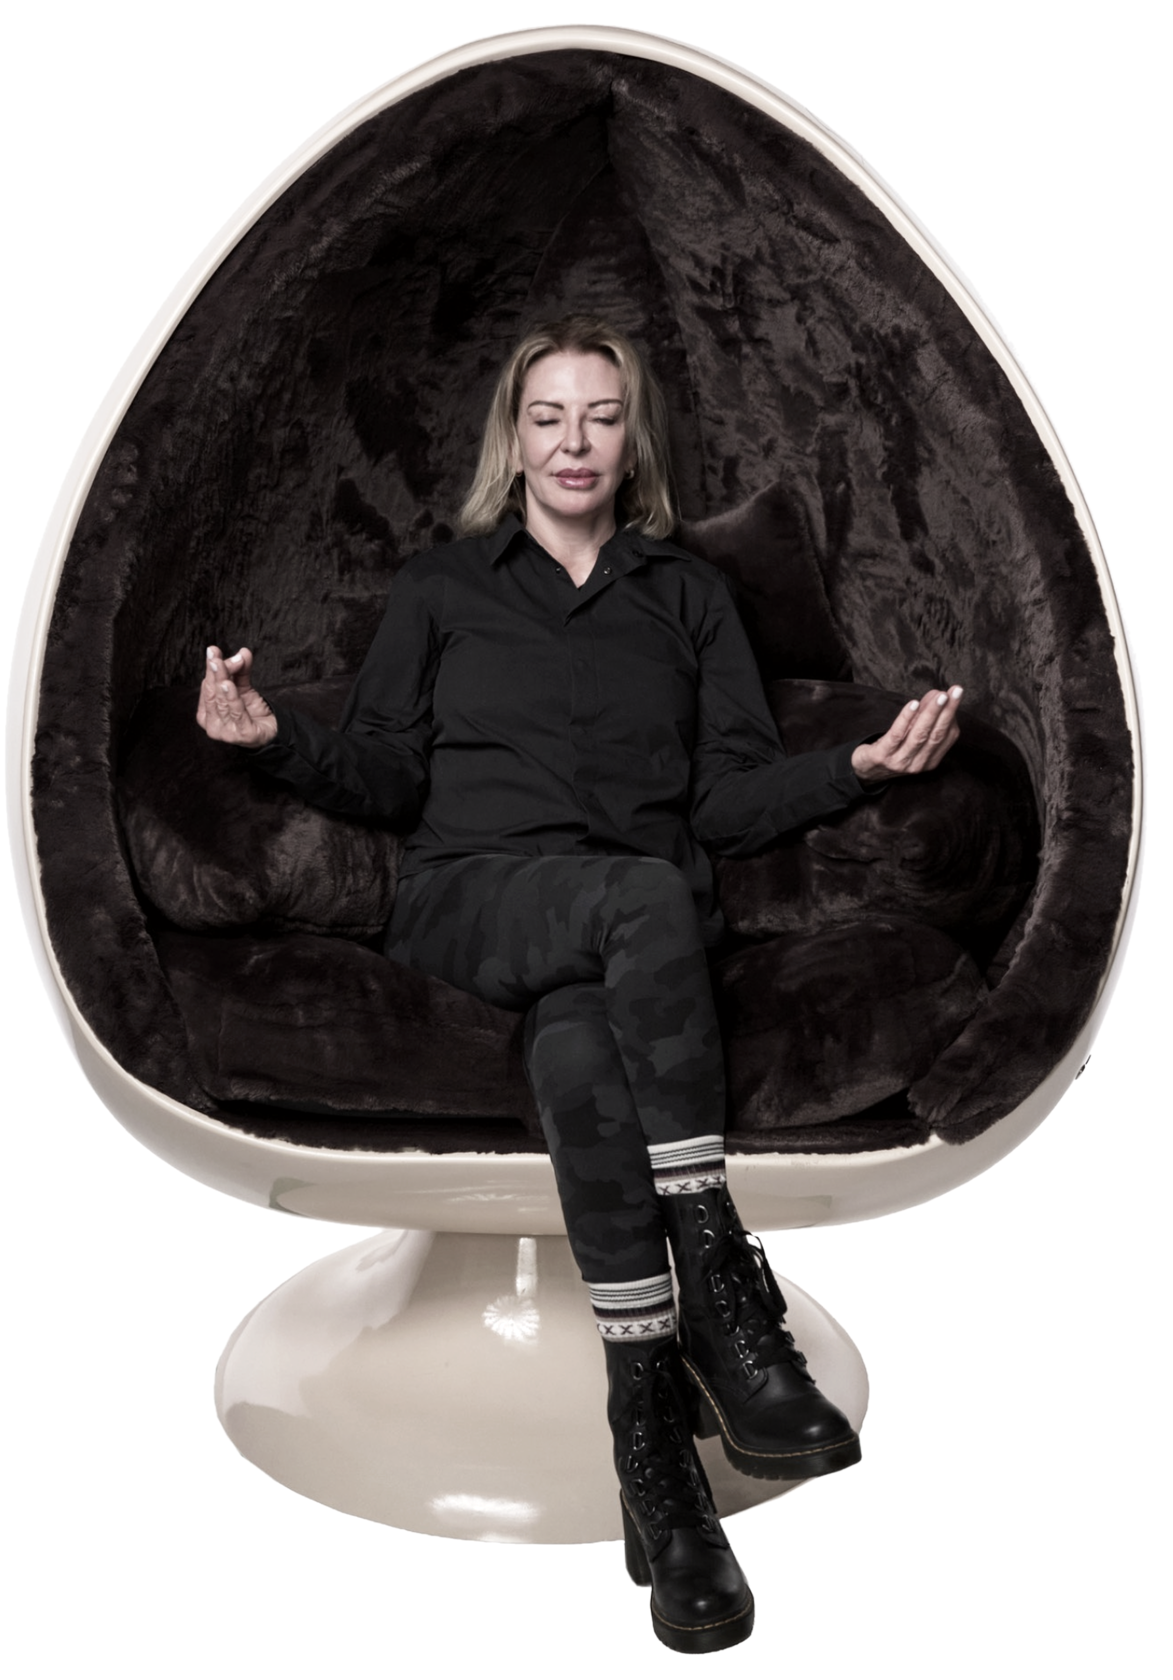
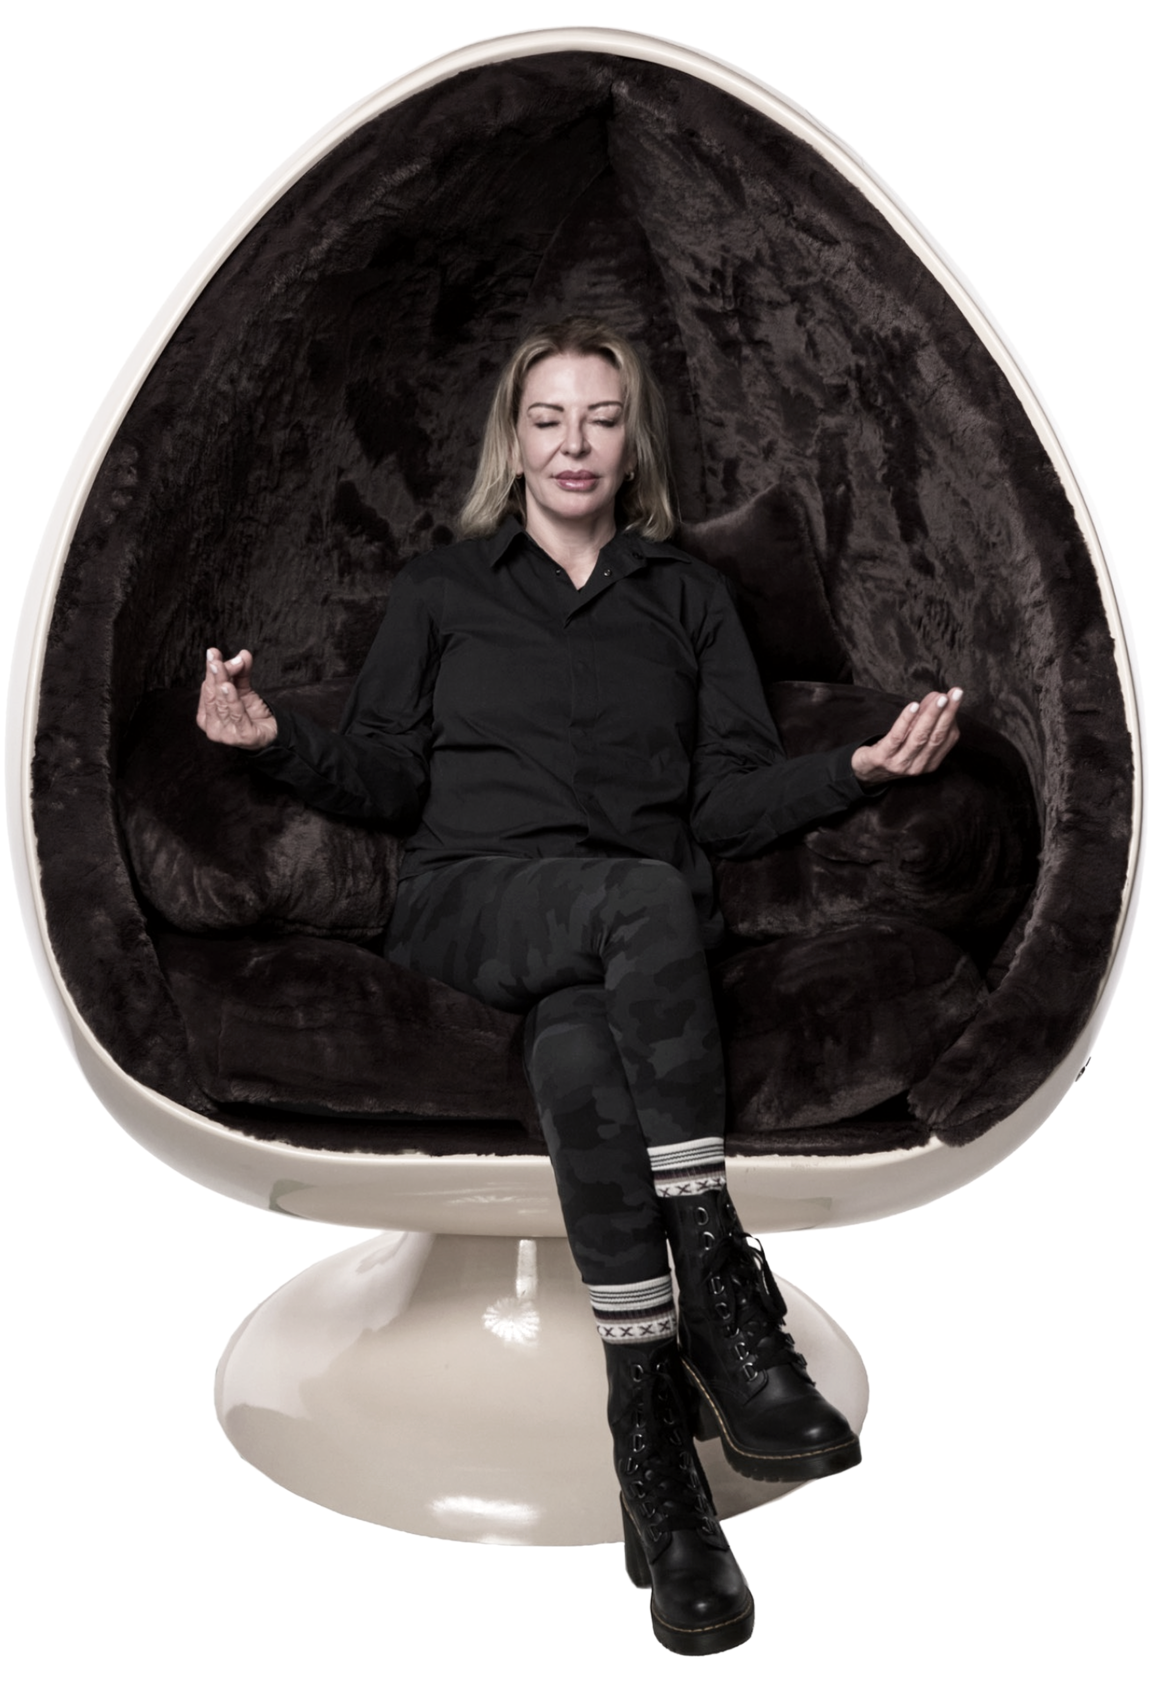
Solodome: restore top of Laura's chair, position quote
Claude-Session: https://claude.ai/code/session_012U18n2jx8i57thyH5Nwtnb

diff --git a/features/solodome/index.html b/features/solodome/index.html
@@ -280,7 +280,7 @@ footer p span{color:#fed438}
 .pq.boxed blockquote,.big.boxq blockquote,.big.boxq blockquote span{color:#000!important;font-style:italic}
 .pq.boxed cite,.big.boxq cite{color:#000!important}
 .boxed figure img{mix-blend-mode:normal}
-@media (min-width:761px){.pq.boxed.photo.ir.flipbox{grid-template-columns:minmax(0,1.1fr) minmax(0,1fr)!important}.pq.boxed.photo.ir.flipbox figure{order:-1}}
+@media (min-width:761px){.pq.boxed.photo.ir.flipbox{grid-template-columns:minmax(0,1.15fr) minmax(0,.85fr)!important;padding-left:clamp(20px,5vw,80px)!important}.pq.boxed.photo.ir.flipbox .q{padding-left:clamp(20px,6vw,84px)!important;margin-left:0!important;justify-self:start}.pq.boxed.photo.ir.flipbox figure{order:-1}}
 </style>
 
 </head>
@@ -441,7 +441,7 @@ footer p span{color:#fed438}
     </div>
 
     <div class="wrap wide">
-      <div class="pq ir boxed photo flipbox" style="--ar:1173/1680">
+      <div class="pq ir boxed photo flipbox" style="--ar:1174/1682">
         <figure><span class="crop"><img loading="lazy" src="/features/solodome/img/s19.png" alt="Laura Sharpe listening to Solotones in the Solodome"></span></figure>
         <div class="q"><blockquote class="long" style="text-wrap:balance">“Relief… I felt relief.”</blockquote><cite>Laura Sharpe, AFT Founder</cite></div>
       </div>

diff --git a/_build/feature-template/solodome-source.html b/_build/feature-template/solodome-source.html
@@ -275,7 +275,7 @@ footer p span{color:#fed438}
 .pq.boxed blockquote,.big.boxq blockquote,.big.boxq blockquote span{color:#000!important;font-style:italic}
 .pq.boxed cite,.big.boxq cite{color:#000!important}
 .boxed figure img{mix-blend-mode:normal}
-@media (min-width:761px){.pq.boxed.photo.ir.flipbox{grid-template-columns:minmax(0,1.1fr) minmax(0,1fr)!important}.pq.boxed.photo.ir.flipbox figure{order:-1}}
+@media (min-width:761px){.pq.boxed.photo.ir.flipbox{grid-template-columns:minmax(0,1.15fr) minmax(0,.85fr)!important;padding-left:clamp(20px,5vw,80px)!important}.pq.boxed.photo.ir.flipbox .q{padding-left:clamp(20px,6vw,84px)!important;margin-left:0!important;justify-self:start}.pq.boxed.photo.ir.flipbox figure{order:-1}}
 </style>
 
 <header>
@@ -434,7 +434,7 @@ footer p span{color:#fed438}
     </div>
 
     <div class="wrap wide">
-      <div class="pq ir boxed photo flipbox" style="--ar:1173/1680">
+      <div class="pq ir boxed photo flipbox" style="--ar:1174/1682">
         <figure><span class="crop"><img src="{{s19}}" alt="Laura Sharpe listening to Solotones in the Solodome"></span></figure>
         <div class="q"><blockquote class="long" style="text-wrap:balance">“Relief… I felt relief.”</blockquote><cite>Laura Sharpe, AFT Founder</cite></div>
       </div>
